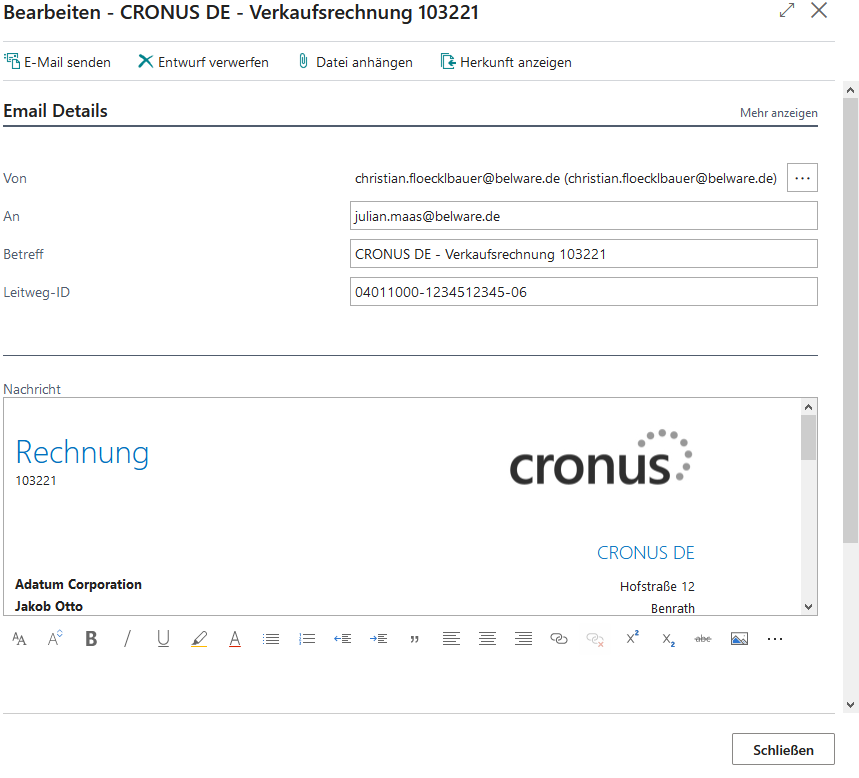
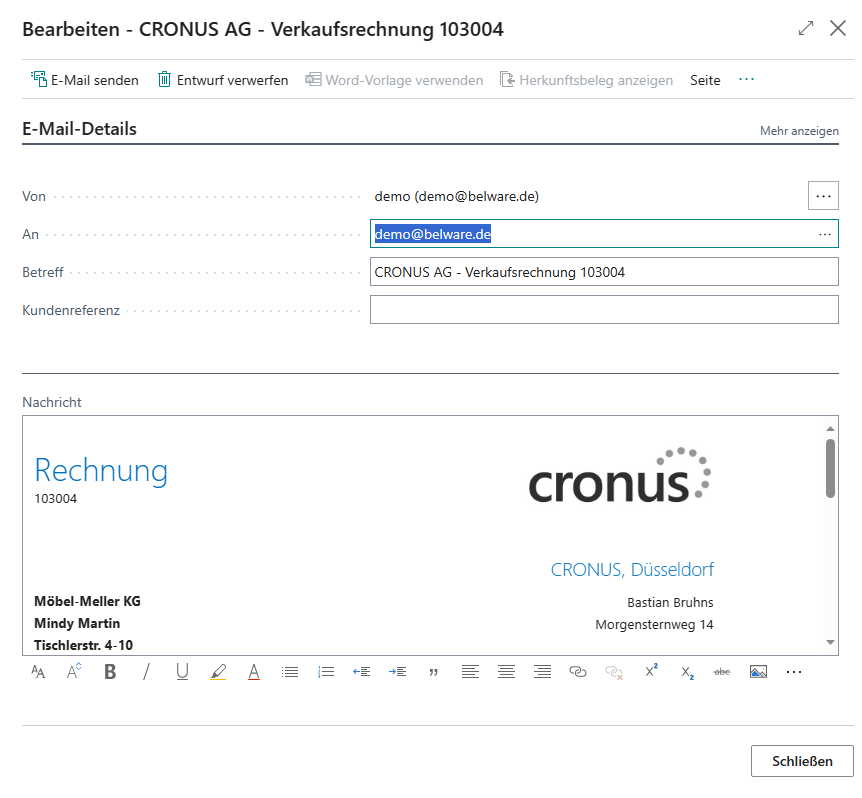
XRechnung - Änderungen

diff --git a/content/en-us/Apps/XRechnung/first steps/setup/setup ident ID.md b/content/en-us/Apps/XRechnung/first steps/setup/setup ident ID.md
@@ -1,20 +1,27 @@
 ---
-title: "Ident ID"
+title: "Buyer Reference / Leitweg-Id"
 date: 2020-02-28T10:08:56+09:00
 description: 
 draft: false
 collapsible: false
 weight: 1
 ---
-### Setup
+### Buyer reference
 
-### Ident ID
+The buyer reference represents an identifier that uniquely identifies a customer.
+The XRechnung standard uses the concept of the **Leitweg-Id** for addressing public sector customers.
+You can read more about the **Leitweg-Id** below.
 
-The Ident ID must be indicated on every electronic invoice sent to public-sector customers of the federal administration.
+In principle, however, the XRechnung standard can also be used in the non-public sector.
+Here, usually no **Leitweg-Ids** are used, but own identifiers.
 
-The Ident ID is intended to enable addressing and, if necessary, forwarding of the received electronic invoice to the downstream invoice processing systems of the connected administrative units. In order to optimize acceptance and manageability both for public-sector customers and for their service providers and their service providers, the federal and state governments have agreed on a uniform system as part of the operation of the XRechnung standard.
+### Leitweg-Id
 
-The Ident ID is basically made up of three components::
+The Leitweg-Id must be indicated on every electronic invoice sent to public-sector customers of the federal administration.
+
+The Leitweg-Id is intended to enable addressing and, if necessary, forwarding of the received electronic invoice to the downstream invoice processing systems of the connected administrative units. In order to optimize acceptance and manageability both for public-sector customers and for their service providers and their service providers, the federal and state governments have agreed on a uniform system as part of the operation of the XRechnung standard.
+
+The Leitweg-Id is basically made up of three components::
 
 - Rough addressing,
 - Fine addressing and
@@ -28,12 +35,12 @@ The so-called rough addressing is used to distinguish whether the invoice recipi
   b) The invoice recipient is a federal state that receives electronic invoices via the OZG-RE.
 - 993: The invoice recipient is part of the indirect federal administration and receives electronic invoices via its own solution (neither ZRE nor OZG-RE).
 
-Example structure of an Ident ID: 123-456-76
+Example structure of an Leitweg-Id: 123-456-76
 
-An invoice recipient of the federal administration has at least one Ident ID.
+An invoice recipient of the federal administration has at least one Leitweg-Id.
 
-The design of the Ident ID in an authority is based on the organization of internal invoice processing. Authorities with several routing IDs ensure that the invoice is addressed directly to the area responsible for management by specifying the corresponding routing IDs. It is therefore essential that the Ident ID specified in the order is always used for invoicing.
+The design of the Leitweg-Id in an authority is based on the organization of internal invoice processing. Authorities with several routing IDs ensure that the invoice is addressed directly to the area responsible for management by specifying the corresponding routing IDs. It is therefore essential that the Leitweg-Id specified in the order is always used for invoicing.
 
-The Ident IDs are assigned decentrally by the federal and state governments. Therefore, there is currently no nationwide database in which all Ident IDs are entered.
+The Leitweg-Ids are assigned decentrally by the federal and state governments. Therefore, there is currently no nationwide database in which all Leitweg-Ids are entered.
 
-**You will receive the Ident ID exclusively from the respective invoice recipient.**
+**You will receive the Leitweg-Id exclusively from the respective invoice recipient.**

diff --git a/content/de-de/Apps/XRechnung/working with XRechnung/sending.md b/content/de-de/Apps/XRechnung/working with XRechnung/sending.md
@@ -12,30 +12,29 @@ weight: 1
 
 Wenn die Einrichtung abgeschlossen wurde, so können Sie Rechnungen einfach per E-Mail senden. Öffnen Sie also Ihre gebuchten Verkaufsrechnungen und wählen Sie die zu versendende Rechnung aus.
 
-![](images/XRechnung/XRechnungScreenshot3.PNG)
+|![](images/XRechnung/XRechnungScreenshot3.PNG)|
+|-|
  
 **„Drucken/Senden“ -> „Als XRechnung senden“**
 
-Es öffnet sich ein neuer Dialog, in dem Sie vor dem Versenden noch Anpassungen vornehmen können.
+Es öffnet sich anschließend das standardmäßige E-Mail-Fenster mit kleineren Anpassungen für den XRechnung-Versand.
 
-![](images/XRechnung/XRechnungScreenshot4.PNG)
+|![](images/XRechnung/XRechnungScreenshot4.PNG)|
+|-|
 
-Im Dialog lassen sich der Absender, der Empfänger, der Betreff und auch nochmal die Leitweg-ID einsehen aber auch anpassen.
-Der Inhalt der Mail kann angepasst werden und die aktuellen Anhänge sind sichtbar.
+Im Dialog lassen sich der Absender, der Empfänger, der Betreff sowie die Kundenreferenz einsehen und anpassen.
+Der Inhalt der Mail sowie weitere Anhänge können ebenfalls eingesehen und verändert werden.
+Mehr zum Thema **Anhänge** finden Sie [hier](de-de/apps/xrechnung/working-with-xrechnung/attachments).
 
-Wenn Sie noch weitere Anhänge haben, welche Sie mitversenden möchten, dann können Sie diese über das Feld **„Datei anhängen“** Ihrer Mail hinzufügen.
-Mehr zum Thema Anhänge finden Sie [hier](de-de/apps/xrechnung/working-with-xrechnung/attachments).
-
-{{< notice info "Hinweis" >}}
- _Für den Fall, dass Sie in den Dokumentlayouts eine einbetten der Anhänge angewählt haben, so werden diese ebenfalls in die XML eingebettet und lassen sich anschließend nur noch maschinell auslesen. Dabei sollte man darauf achten, welche Dateitypen der Empfänger akzeptiert._
-{{< /notice >}}
-#
-Wenn Sie die gewünschten Änderungen vorgenommen haben, können Sie den Versand über **„E-Mail senden“** auslösen. Im Hintergrund wird nun noch eine Prüfung auf das Schema der XRechnung vorgenommen.
+Wenn Sie die gewünschten Änderungen vorgenommen haben, können Sie den Versand über **E-Mail senden** auslösen.
+Dabei wird eine XML-Datei erzeugt und je nach [Einrichtung](/de-de/apps/xrechnung/first-steps/setup/base-setup/) auf korrekten Syntax validiert, bevor es dann über den herkömmlichen E-Mail-Weg versandt wird.
+Sollte das Validieren von XRechnungen aktiviert und eine beim XRechnung-Versand erzeugte XML-Datei fehlerhaft validiert worden sein,
+so wird der Mail-Versand abgebrochen. Sie erhalten zusätzlich einen Prüfbericht, indem die Gründe für das Ablehnen der entsprechenden XRechnung protokolliert sind. Mehr Informationen zum Thema **Prüfbericht** erhalten Sie [hier](/de-de/apps/xrechnung/working-with-xrechnung/negative-xrechnung/).
 
 ### Nach dem Versand
 
-Falls die Prüfung des Dokumentes erfolgreich war, so wird die Rechnung versendet.
-
+Falls die Prüfung des Dokuments erfolgreich war, so wird die Rechnung versendet.
 Nach dem Absenden erhält der Empfänger eine **„xml“-Datei**. Diese ist die zugehörige Rechnung im **„XRechnung“**-Format.
 
-![](images/XRechnung/xrechnungemail.png)
+|![](images/XRechnung/xrechnungemail.png)|
+|-|

diff --git a/content/en-us/Apps/XRechnung/working with XRechnung/sending.md b/content/en-us/Apps/XRechnung/working with XRechnung/sending.md
@@ -12,26 +12,26 @@ weight: 1
 
 If the setup has been completed, then you can easily send invoices by email. Simply open your posted sales invoices and select the invoice you want to send.
 
-![](images/XRechnung/XRechnungScreenshot3.PNG)
+|![](images/XRechnung/XRechnungScreenshot3_en.png)|
+|-|
  
 **„Print/Send“ -> „Send as XRechnung“**
 
-A new dialog opens where you can make adjustments before sending.
+The standard e-mail window will then open with minor adjustments for XRechnung sending.
 
-![](images/XRechnung/XRechnungScreenshot4.PNG)
+|![](images/XRechnung/XRechnungScreenshot4_en.png)|
+|-|
 
-In the dialog, the sender, the recipient, the subject and also again the Ident ID can be viewed but also adjusted.
-The content of the mail can be customized and the current attachments are visible.
+In the dialog, the sender, the recipient, the subject and the customer reference can be viewed and adjusted.
+The content of the mail and other attachments can also be viewed and modified.
 
-If you have other attachments that you want to send, then you can add more attachments via the **“Attach file”** field in the menu bar.
 You can find more on the topic of attachments [here](en-us/apps/xrechnung/working-with-xrechnung/attachments).
 
-{{< notice info "Hinweis" >}}
- _If you have selected embedded attachments in the document layouts, these will also be embedded in the XML and can then only be read by machine. You have to pay attention to which attachments the recipient accepts._
-{{< /notice >}}
-#
-If you have made the desired changes, you can trigger the dispatch via **“Send Email”**. In the background, a check for the scheme of the XRechnung is now performed.
 
+When you have made the desired changes, you can trigger the dispatch via **send email**.
+This will generate an XML file and validate it for correct syntax depending on [setup](/en-us/apps/xrechnung/first-steps/setup/base-setup/) before it is then sent via the conventional email route.
+If XRechnung validation is enabled and an XML file generated during XRechnung sending has been validated incorrectly,
+the mail dispatch will be aborted. You will also receive a validation report in which the reasons for rejecting the corresponding XRechnung are logged. More information about the **validation report** can be found [here](/en-us/apps/xrechnung/working-with-xrechnung/negative-xrechnung/).
 ### After sending
 
 If the verification of the document was successful, the invoice will be sent.
@@ -39,4 +39,5 @@ If the verification of the document was successful, the invoice will be sent.
 After sending, the recipient will receive, among other things, a **“xml-file”**.
 This is the corresponding invoice in **“XRechnung”** format.
 
-![](images/XRechnung/xrechnungemail.png)
+|![](images/XRechnung/xrechnungemail.png)|
+|-|

diff --git a/content/de-de/Apps/XRechnung/working with XRechnung/negative xrechnung.md b/content/de-de/Apps/XRechnung/working with XRechnung/negative xrechnung.md
@@ -1,19 +1,27 @@
 ---
-title: "Negative XRechnungen"
+title: "Prüfbericht"
 date: 2020-02-28T10:08:56+09:00
 description: 
 draft: false
 collapsible: false
 weight: 2
 ---
-### Arbeiten mit XRechnung
+# Prüfbericht
 
-### Negative XRechnungen
+Optional kann über die [**Connector 365 Einrichtung**](/de-de/apps/xrechnung/first-steps/setup/base-setup/) die Validierung von XRechnung-Dateien aktiviert werden. Dabei wird eine XRechnung auf korrekten Syntax und Konformität zu den formalen Vorgaben für XRechnung geprüft.
+Das Tool welches hierbei genutzt wird, ist der offizielle **KoSIT Validator**.
+Eine solche Prüfung, wie zuvor beschrieben, findet in der Regel auch bei dem Empfänger statt.
+Der Vorteil des Einschaltens der Prüfung ist also der, dass Sie ganz einfach eine gleichwertige Prüfung im Anschluss der XRechnung-Erzeugung ausführen können.
+Somit können Sie fehlerhafte Einträge frühzeitig erkennen und nicht erst dann, wenn der Empfänger mittels Prüfung auf die gleichen Schlüsse kommt und die Rechnung zurückweist.
 
-Für den Fall, dass eine XRechnung nicht dem geforderten Schema entspricht, kommt es zu einer Fehlermeldung, wird diese bestätigt öffnet sich der Prüfbericht für die XRechnung.
+## Abgelehnte XRechnungen
 
-![](images/XRechnung/xrechnungbericht.png)
+Wenn die Validierung von XRechnungen aktiv ist, und beim [Versand](/de-de/apps/xrechnung/working-with-xrechnung/sending/) eine erzeugte XRechnung als nicht konform zu den formalen Vorgaben für XRechnung geachtet wird, kommt es zu einer Fehlermeldung. Sobald Sie diese bestätigen öffnet sich der zugehörige Prüfbericht:
 
-Dort lässt sich einsehen, welche Punkte nicht zum geforderten Schema passen. Korrigieren Sie diese Punkte und versenden Sie die XRechnung erneut.
 
-Es gibt viele Stellen, die dazu führen, dass eine XRechnung nicht dem Schema entspricht. Für die häufigsten haben wir eine Auflisten und Anleitung unter [Einrichtung](de-de/connector-on-appsource/xrechnung/first-steps/setup/setup-vat-scheme/)
+|![](images/XRechnung/xrechnungbericht.png)|
+|-|
+
+Auf dem Prüfbericht kann detailliert eingesehen werden, welche Felder und Konstellationen den Vorgaben für XRechnungen widersprechen.
+
+Die häufigsten Fehlerquellen können durch Einrichtung gelöst werden. Diese haben wir [hier](de-de/apps/xrechnung/first-steps/setup/) protokolliert.

diff --git a/content/en-us/Apps/XRechnung/working with XRechnung/negative xrechnung.md b/content/en-us/Apps/XRechnung/working with XRechnung/negative xrechnung.md
@@ -1,20 +1,27 @@
 ---
-title: "Negative XRechnung"
+title: "Validation report"
 date: 2020-02-28T10:08:56+09:00
 description: 
 draft: false
 collapsible: false
 weight: 2
 ---
-### Working with XRechnung
+# Validation report
 
-### Negative XRechnung
+Optionally, the validation of XRechnung files can be activated via the [**Connector 365 Setup**](/en-us/apps/xrechnung/first-steps/setup/base-setup/). Thereby an XRechnung is checked for correct syntax and conformity to the formal specifications for XRechnung.
+The tool which is used here is the official **KoSIT Validator**.
+Such a check, as described above, usually also takes place at the recipient.
+The advantage of activating the validation is that you can easily perform an equivalent validation after the XRechnung generation.
+Thus, you can detect incorrect entries at an early stage and not only when the recipient comes to the same conclusions by means of verification and rejects the invoice.
 
-In case an XRechnung does not correspond to the required scheme, an error message will be displayed, if confirmed, the XRechnung validation report will be opened.
+## Rejected XRechnung
 
-![](images/XRechnung/xrechnungbericht.png)
+If the validation of XRechnung is active, and during [sending](/en-us/apps/xrechnung/working-with-xrechnung/sending/) a generated XRechnung is considered as not conforming to the formal specifications for XRechnung, an error message occurs. As soon as you confirm this, the corresponding validation report opens:
 
-There you can see which points do not match the required scheme. Correct these points and send the XRechnung again.
+|![](images/XRechnung/xrechnungbericht.png)|
+|-|
 
-There are many places that cause an XRechnung to not conform to the schema. For the most common ones we have a list and guidance at the [setup](en-us/connector-on-appsource/xrechnung/first-steps/setup/setup-vat-scheme/)
+The audit report shows in detail which fields and constellations contradict the specifications for XRechnung.
+
+The most common sources of errors can be solved by setup. We have logged these [here](en-us/apps/xrechnung/first-steps/setup/).
 

diff --git a/content/de-de/Apps/XRechnung/first steps/setup/setup customer.md b/content/de-de/Apps/XRechnung/first steps/setup/setup customer.md
@@ -6,26 +6,29 @@ draft: false
 collapsible: false
 weight: 2
 ---
-### Einrichtung
+# Einrichtung
 
-### Debitor
+## Debitor
 
 ![](images/XRechnung/XRechnungScreenshot1.png)
 
-Die Einstellungen, um Belege im XRechnung-Format senden zu können, werden am jeweiligen Debitor vorgenommen. Unter **„Navigieren“ - „Dokumentlayouts“** des jeweiligen Debitors.
+Die Debitorspezifischen Einstellungen für das Versenden von XRechnungen werden in den **Dokumentlayouts** des jeweiligen Debitors vorgenommen.
 
-Wenn Sie die Dokumentlayouts öffnen stehen Ihnen nun folgende neue Felder zur Verfügung:
-- **Leitweg-ID** 
+Wenn Sie die Dokumentlayouts öffnen stehen Ihnen nach Installation der **Connector 365 XRechnung** App folgende weitere Felder zur Verfügung:
+- **Kundenreferenz** 
 - **Beleg als Anhang hinzufügen**
 
 ![](images/XRechnung/xr_doc_layout.png)
 
-In das Feld **Leitweg-ID** wird die Leitweg-ID des Debitors eingetragen. Diese ist notwendig, um einen Rechnungsempfänger eindeutig identifizieren zu können. Dieses Feld unterliegt einer Syntax-Prüfung und erlaubt nur gültige Leitweg-IDs
+In das Feld **Kundenreferenz** wird die Kennung des Empfängers, bei einem öffentlichen Auftraggerber die Leitweg-ID, eingetragen. Diese ist notwendig, um einen Rechnungsempfänger eindeutig identifizieren zu können.
 
-***Hinweis: Die Leitweg-ID kann auch im E-Mail-Dialog gesetzt werden, das heißt sie muss nicht zwingend in den Dokumentenlayouts gesetzt werden.***
+{{< notice info Hinweis >}}
+Die Kundenreferenz kann auch im E-Mail-Dialog gesetzt werden, das heißt sie muss nicht zwingend in den Dokumentlayouts gesetzt werden.
+{{< /notice >}}
 
+<br>
 
-Im Feld **„Beleg als Anhang hinzufügen“** haben Sie 3 Auswahlmöglichkeiten, welche bestimmen wie mit dem Originalbeleg und ggf. Anhängen umgegangen wird.
+Im Feld **Beleg als Anhang hinzufügen** haben Sie drei Auswahlmöglichkeiten, welche bestimmen wie mit dem Originalbeleg und ggf. Anhängen umgegangen wird.
 
 ![](images/XRechnung/xrechnungbeleganhang.PNG)
 

diff --git a/content/en-us/Apps/XRechnung/first steps/setup/setup customer.md b/content/en-us/Apps/XRechnung/first steps/setup/setup customer.md
@@ -6,27 +6,31 @@ draft: false
 collapsible: false
 weight: 2
 ---
-### Setup
+# Setup
 
-### Customer
+## Customer
 
 ![](images/XRechnung/XRechnungScreenshot1.png)
 
-The settings to be able to send invoices and credit notes in XRechnung format are made on the respective customer. Under **"Navigate" - "Document layouts"** of the respective customer.
+The customer-specific settings for sending XRechnung are made in the **Document layouts** of the respective customer.
 
-When you open the document layouts, following new fields are now available:
-- **Ident ID**
+When you open the document layouts, the following additional fields will be available after installing the **Connector 365 XInvoice** app:
+- **Buyer Reference**
 - **Add document as attachment**
 
 ![](images/XRechnung/xr_doc_layout_en.png)
  
-In the field **Ident ID** the Ident ID of the customer is entered. This is necessary to uniquely identify an invoice recipient. This field is subject to a syntax check and only allows valid Ident IDs.
+In the field **Buyer Reference** the id of the customer is entered. This is necessary to uniquely identify an invoice recipient.
 
-***Note: The route ID can also be set in the e-mail dialog, i.e. it does not necessarily have to be set in the document layouts.***
+{{< notice info >}}
+The customer reference can also be set in the e-mail dialog, i.e. it does not necessarily have to be set in the document layouts.
+{{< /notice >}}
 
-In the field **Add document as attachment** you have 3 selection options which determine how the original document and any attachments are handled.
+<br>
 
-![](images/XRechnung/xrechnungbeleganhang.PNG)
+In the **Add document as attachment** field, you have three choices that determine how the original document and any attachments are handled.
+
+![](images/XRechnung/xr-embed-optoins.png)
 
 **No** - The original document will not be sent additionally, only the XML of the XRechnung will be sent.
 

diff --git a/content/de-de/Apps/XRechnung/first steps/setup/setup ident ID.md b/content/de-de/Apps/XRechnung/first steps/setup/setup ident ID.md
@@ -13,7 +13,7 @@ Der Standard XRechnung verwendet das Konzept der **Leitweg-Id** für die Adressi
 Weiter unten erfahren Sie mehr zum Thema Leitweg-Id.
 
 Grundsätzlich kann der Standard XRechnung allerdings auch im nicht-öffentlichen Raum verwendet werden.
-Hier werden überlicherweise keine Leitweg-Ids verwendet. Stattdessen kann 
+Hier werden überlicherweise keine Leitweg-Ids, sondern eigene Kennungen verwendet.
 
 ### Leitweg-ID
 
